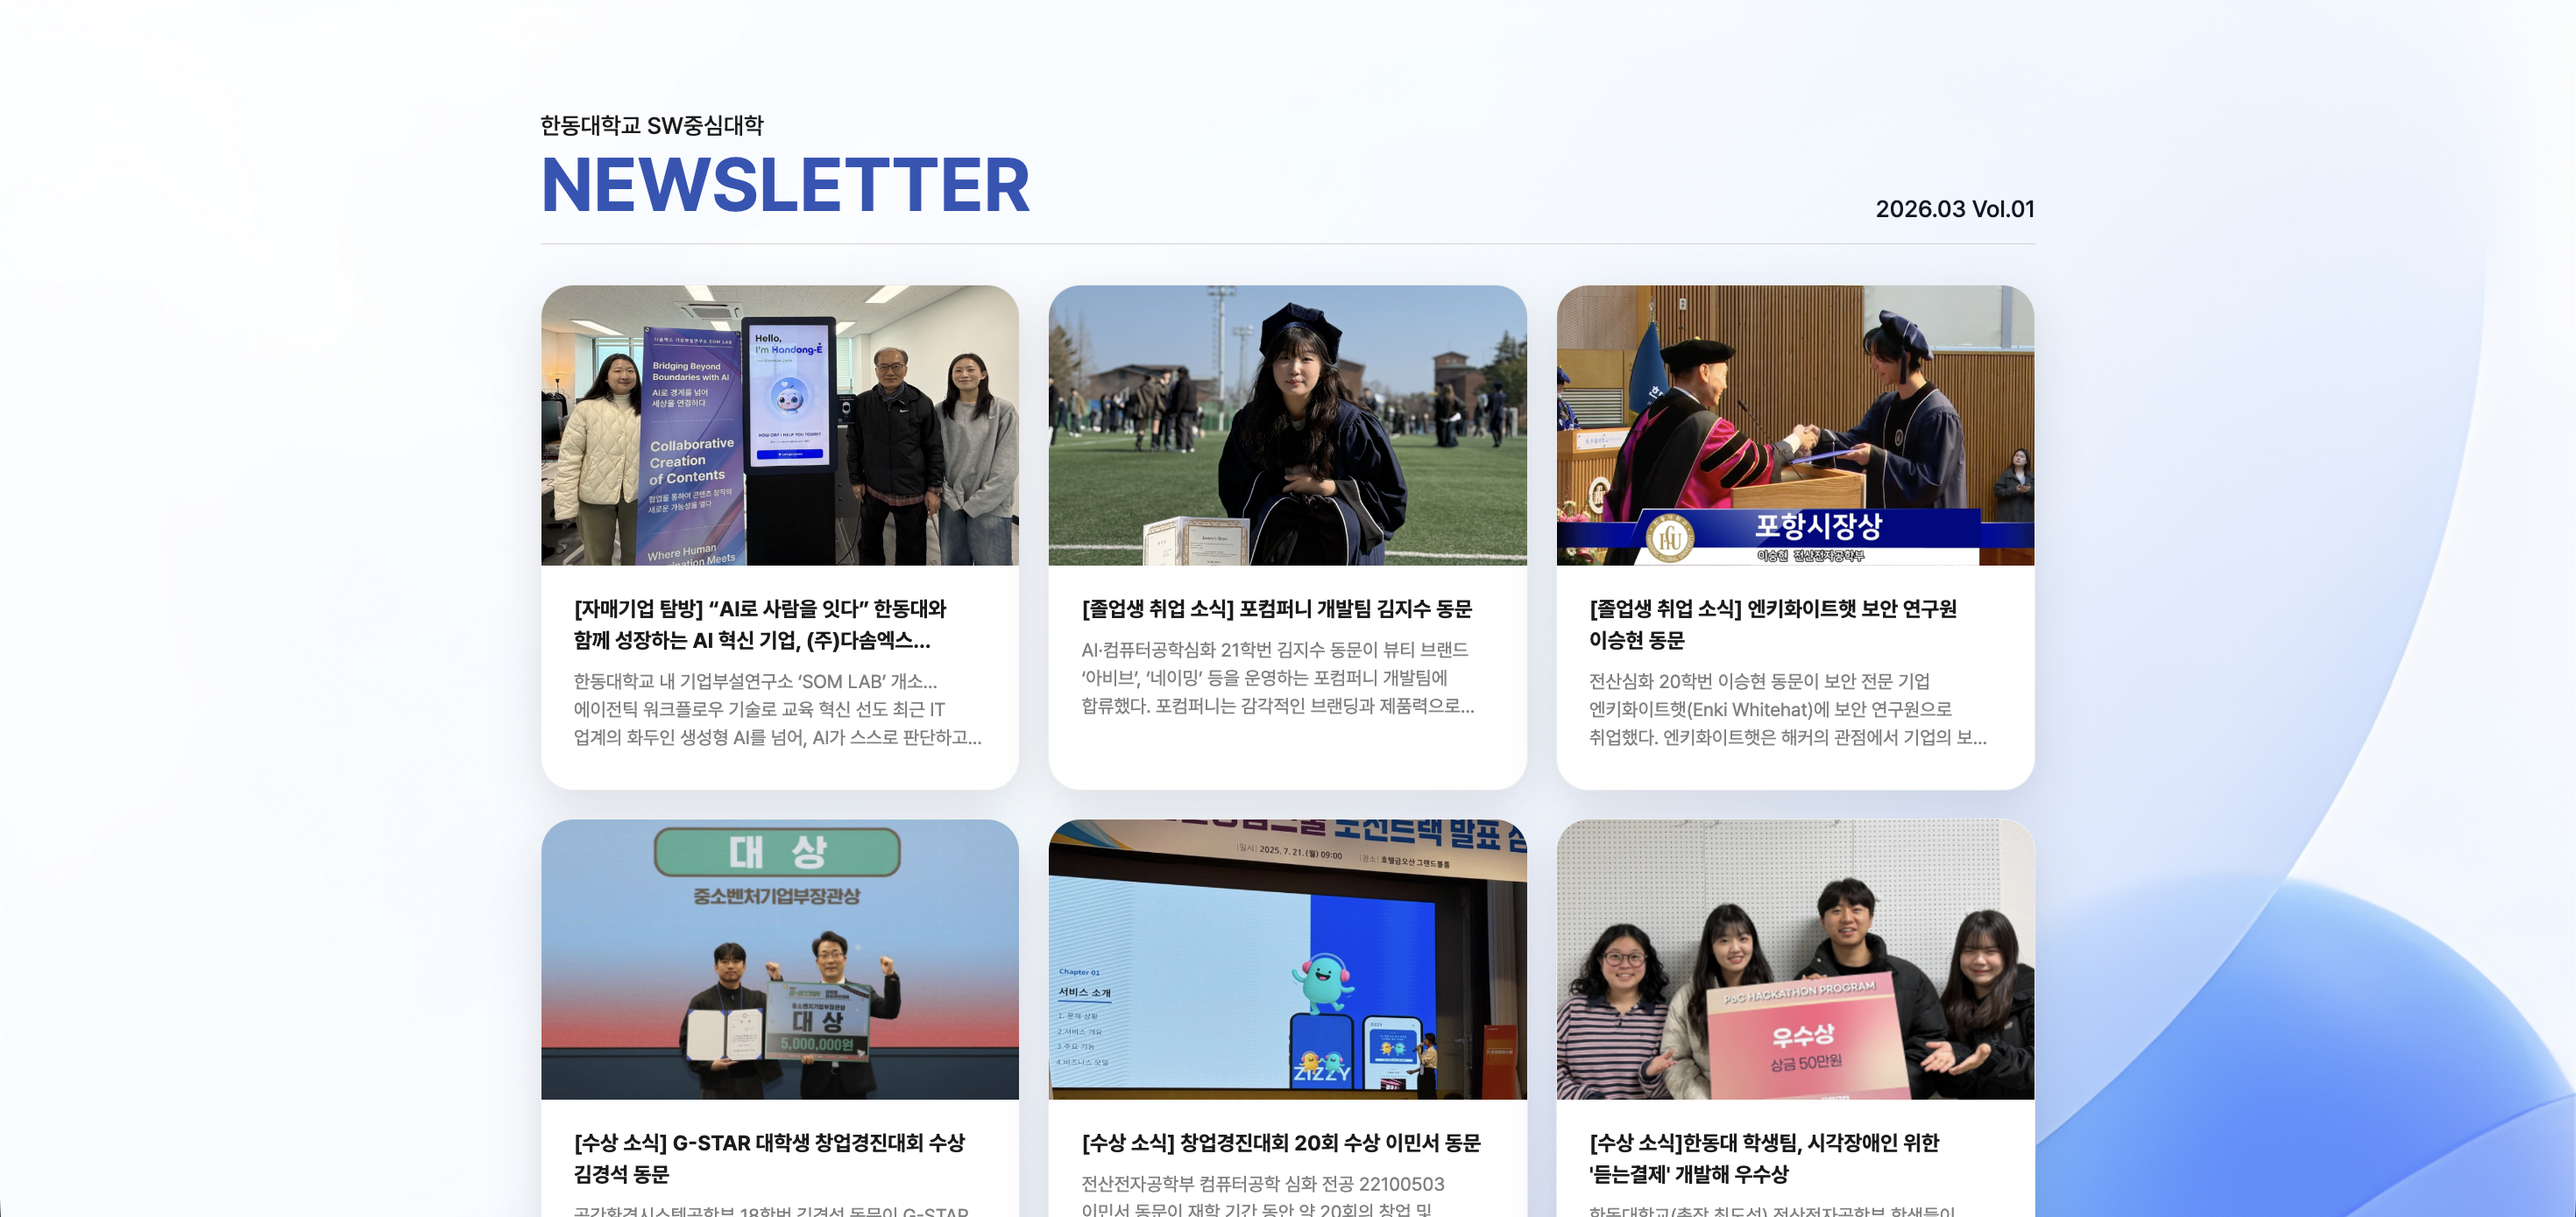
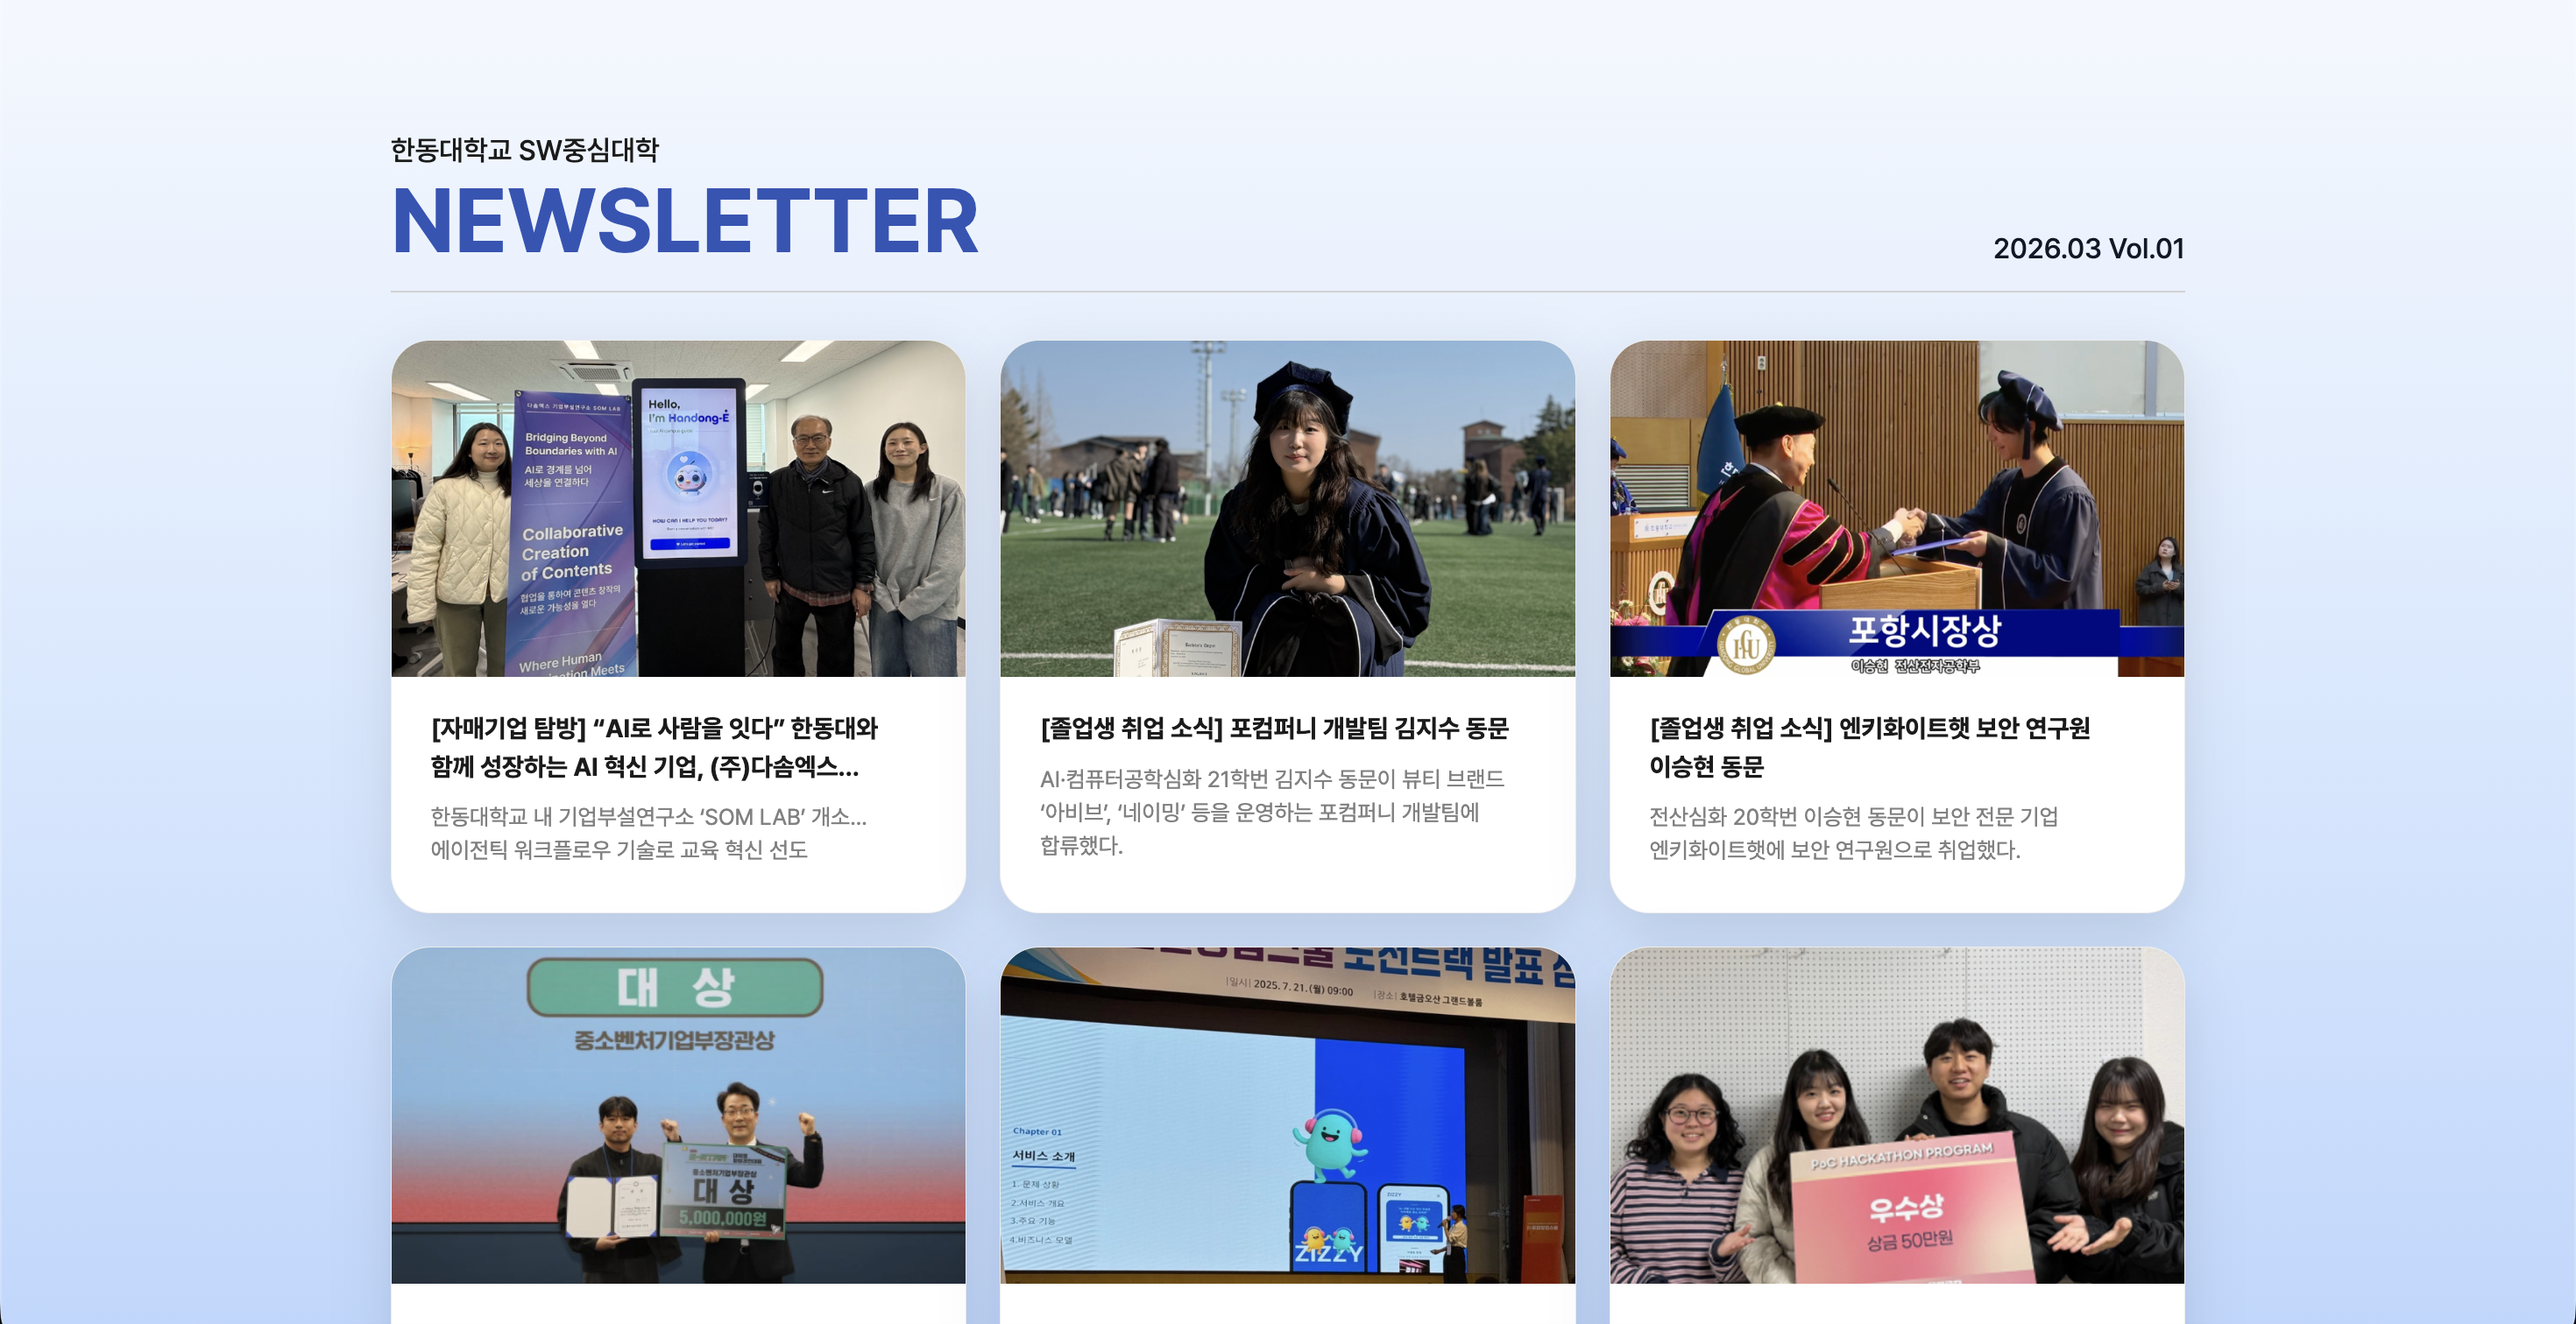
조회수를 위한 NewsletterPageViewCount 추가

diff --git a/src/main/resources/templates/news/newsletter_vol/newsletter_vol01.html b/src/main/resources/templates/news/newsletter_vol/newsletter_vol01.html
@@ -106,7 +106,7 @@
                     <img src="assets/img_6.png" alt="card 이미지" />
                 </div>
                 <div class="card__body">
-                    <h2 class="card__title">[수상 소식]한동대 학생팀, 시각장애인 위한 '듣는결제' 개발해 우수상</h2>
+                    <h2 class="card__title">[수상 소식] 한동대 학생팀, 시각장애인 위한 '듣는결제' 개발해 우수상</h2>
                     <p class="card__desc">
                         한동대학교(총장 최도성) 전산전자공학부 학생들이 시각장애인의 키오스크 이용 불편을 해결하는 혁신적인 결제 시스템을 개발해 주목받고 있다.김종혜, 남종운, 박조이,
                         안서영 학생으로 구성된 한동대 팀은 최근 예강희망키움재단이 주최한 POC(Proof of Concept) 해커톤에서 '듣는결제' 프로젝트를 선보이며 우수상을

diff --git a/src/main/java/com/thc/sprbasic2025/domain/NewsletterPageViewCount.java b/src/main/java/com/thc/sprbasic2025/domain/NewsletterPageViewCount.java
@@ -1,0 +1,4 @@
+package com.thc.sprbasic2025.domain;
+
+public class NewsletterPageViewCount {
+}
